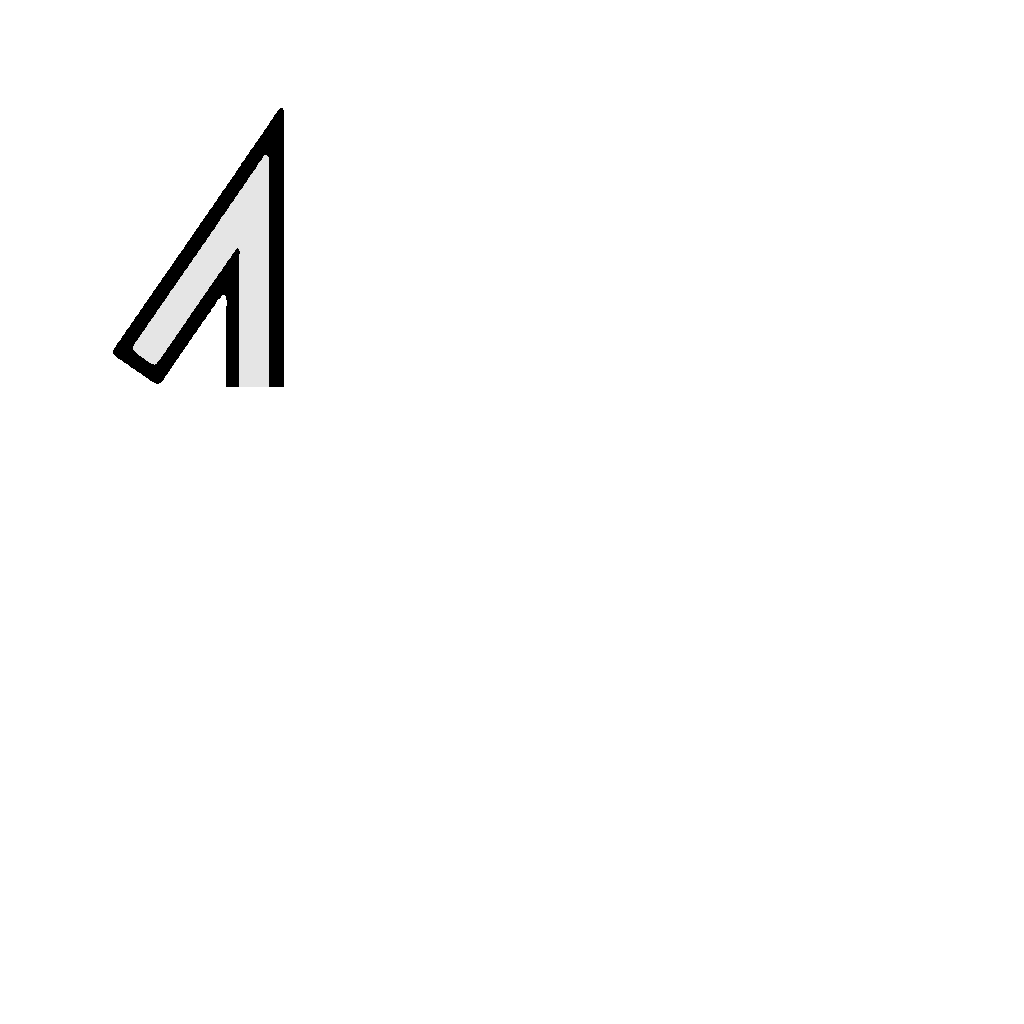
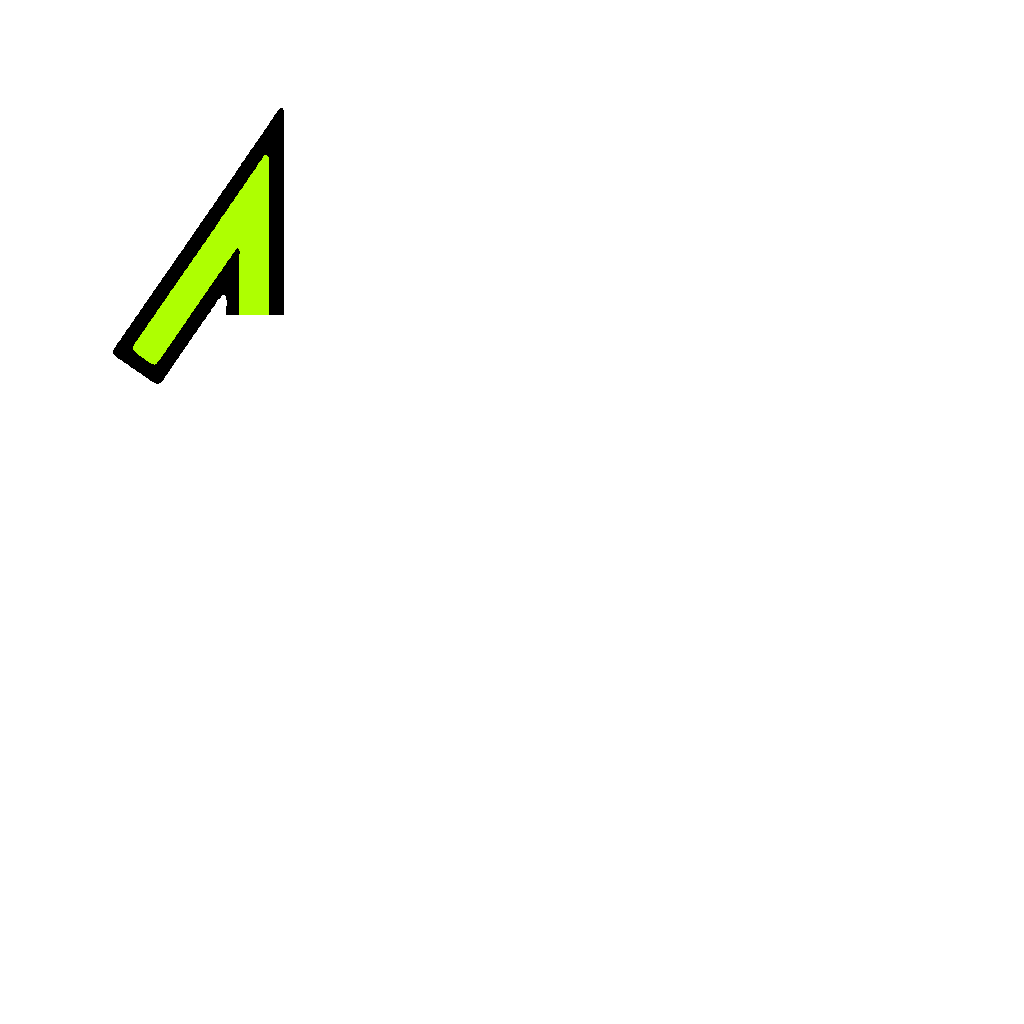
implement: drawing an arrow pointing up

Changed region(s): [[0.125, 0.1562, 0.2812, 0.375]]

diff --git a/main.html b/main.html
@@ -60,6 +60,8 @@
     <div><img src="image/k.png" id="water_entry_logo" width="500" style="display: none"></div>
     <div id="larta_me"><img src="image/larta.png"></div>
     <div id="larta_opponent"><img src="image/larta.png"></div>
+    <div id="arrows"></div>
+<!--
     <div><img src="image/arrow_upright.png" style="z-index: 1000; position: absolute; top: 439.5px; left: 89.25px;" width="140">
         <img src="image/arrow_up.png" style="z-index: 1000; position: absolute; top: 229.5px; left: 89.25px;" width="140">
         <img src="image/arrow_up_head.png" style="z-index: 1000; position: absolute; top: 229.5px; left: 89.25px;" width="140">
@@ -76,4 +78,5 @@
         <img src="image/arrow_downright.png" style="z-index: 1000; position: absolute; top: 299.5px; left: 509.25px;" width="140">
         <img src="image/arrow_downleft.png" style="z-index: 1000; position: absolute; top: 229.5px; left: 89.25px;" width="420">
     </div>
+-->
 </body>

diff --git a/opponent_move.ts b/opponent_move.ts
@@ -527,3 +527,13 @@ async function animateOpponentTamSteppingDuringLatter(p: {src: Coord, firstDest:
     await new Promise((resolve) => setTimeout(resolve, 300 * 0.8093));
     await animateOpponentSrcStepDstFinite_(p.firstDest, p.step, p.secondDest);
 }
+
+function drawArrow(from: Coord, to: Coord) {
+    if (from[1] === to[1] && from[0] > to[0]) { // up arrow
+        document.getElementById("arrows")!.appendChild(createArrowPiece("arrow_up_head", to));
+        for (let i = to[0]; i <= from[0]-1; i++) {
+            document.getElementById("arrows")!.appendChild(createArrowPiece("arrow_up_mid", [i, from[1]]));
+        }
+        document.getElementById("arrows")!.appendChild(createArrowPiece("arrow_up_tail", [from[0]-1, from[1]]));
+    }
+}

diff --git a/create_html_element.ts b/create_html_element.ts
@@ -4,6 +4,20 @@
  * Every call to document.createElement should live here.
  */
 
+function createArrowPiece(path: string, coord: readonly [number, number]) {
+    const [row_index, column_index] = coord;
+    const top = 1 + row_index * BOX_SIZE + 159.5;
+    const left = column_index * BOX_SIZE + 19.25;
+    const i = document.createElement("img");
+    i.classList.add("selection");
+    i.style.top = `${top}px`;
+    i.style.left = `${left}px`;
+    i.src = `image/${path}.png`;
+    i.width = 140;
+    i.height = 140;
+    return i;
+}
+
 function createPieceSizeImageOnBoardByPathAndXY(top: number, left: number, path: string, className: string): HTMLImageElement {
     const i = document.createElement("img");
     i.classList.add(className);

diff --git a/opponent_move.js b/opponent_move.js
@@ -397,3 +397,12 @@ async function animateOpponentTamSteppingDuringLatter(p) {
     await new Promise((resolve) => setTimeout(resolve, 300 * 0.8093));
     await animateOpponentSrcStepDstFinite_(p.firstDest, p.step, p.secondDest);
 }
+function drawArrow(from, to) {
+    if (from[1] === to[1] && from[0] > to[0]) { // up arrow
+        document.getElementById("arrows").appendChild(createArrowPiece("arrow_up_head", to));
+        for (let i = to[0]; i <= from[0] - 1; i++) {
+            document.getElementById("arrows").appendChild(createArrowPiece("arrow_up_mid", [i, from[1]]));
+        }
+        document.getElementById("arrows").appendChild(createArrowPiece("arrow_up_tail", [from[0] - 1, from[1]]));
+    }
+}

diff --git a/create_html_element.js b/create_html_element.js
@@ -4,6 +4,19 @@
  * No write to the global variable is permitted.
  * Every call to document.createElement should live here.
  */
+function createArrowPiece(path, coord) {
+    const [row_index, column_index] = coord;
+    const top = 1 + row_index * BOX_SIZE + 159.5;
+    const left = column_index * BOX_SIZE + 19.25;
+    const i = document.createElement("img");
+    i.classList.add("selection");
+    i.style.top = `${top}px`;
+    i.style.left = `${left}px`;
+    i.src = `image/${path}.png`;
+    i.width = 140;
+    i.height = 140;
+    return i;
+}
 function createPieceSizeImageOnBoardByPathAndXY(top, left, path, className) {
     const i = document.createElement("img");
     i.classList.add(className);
